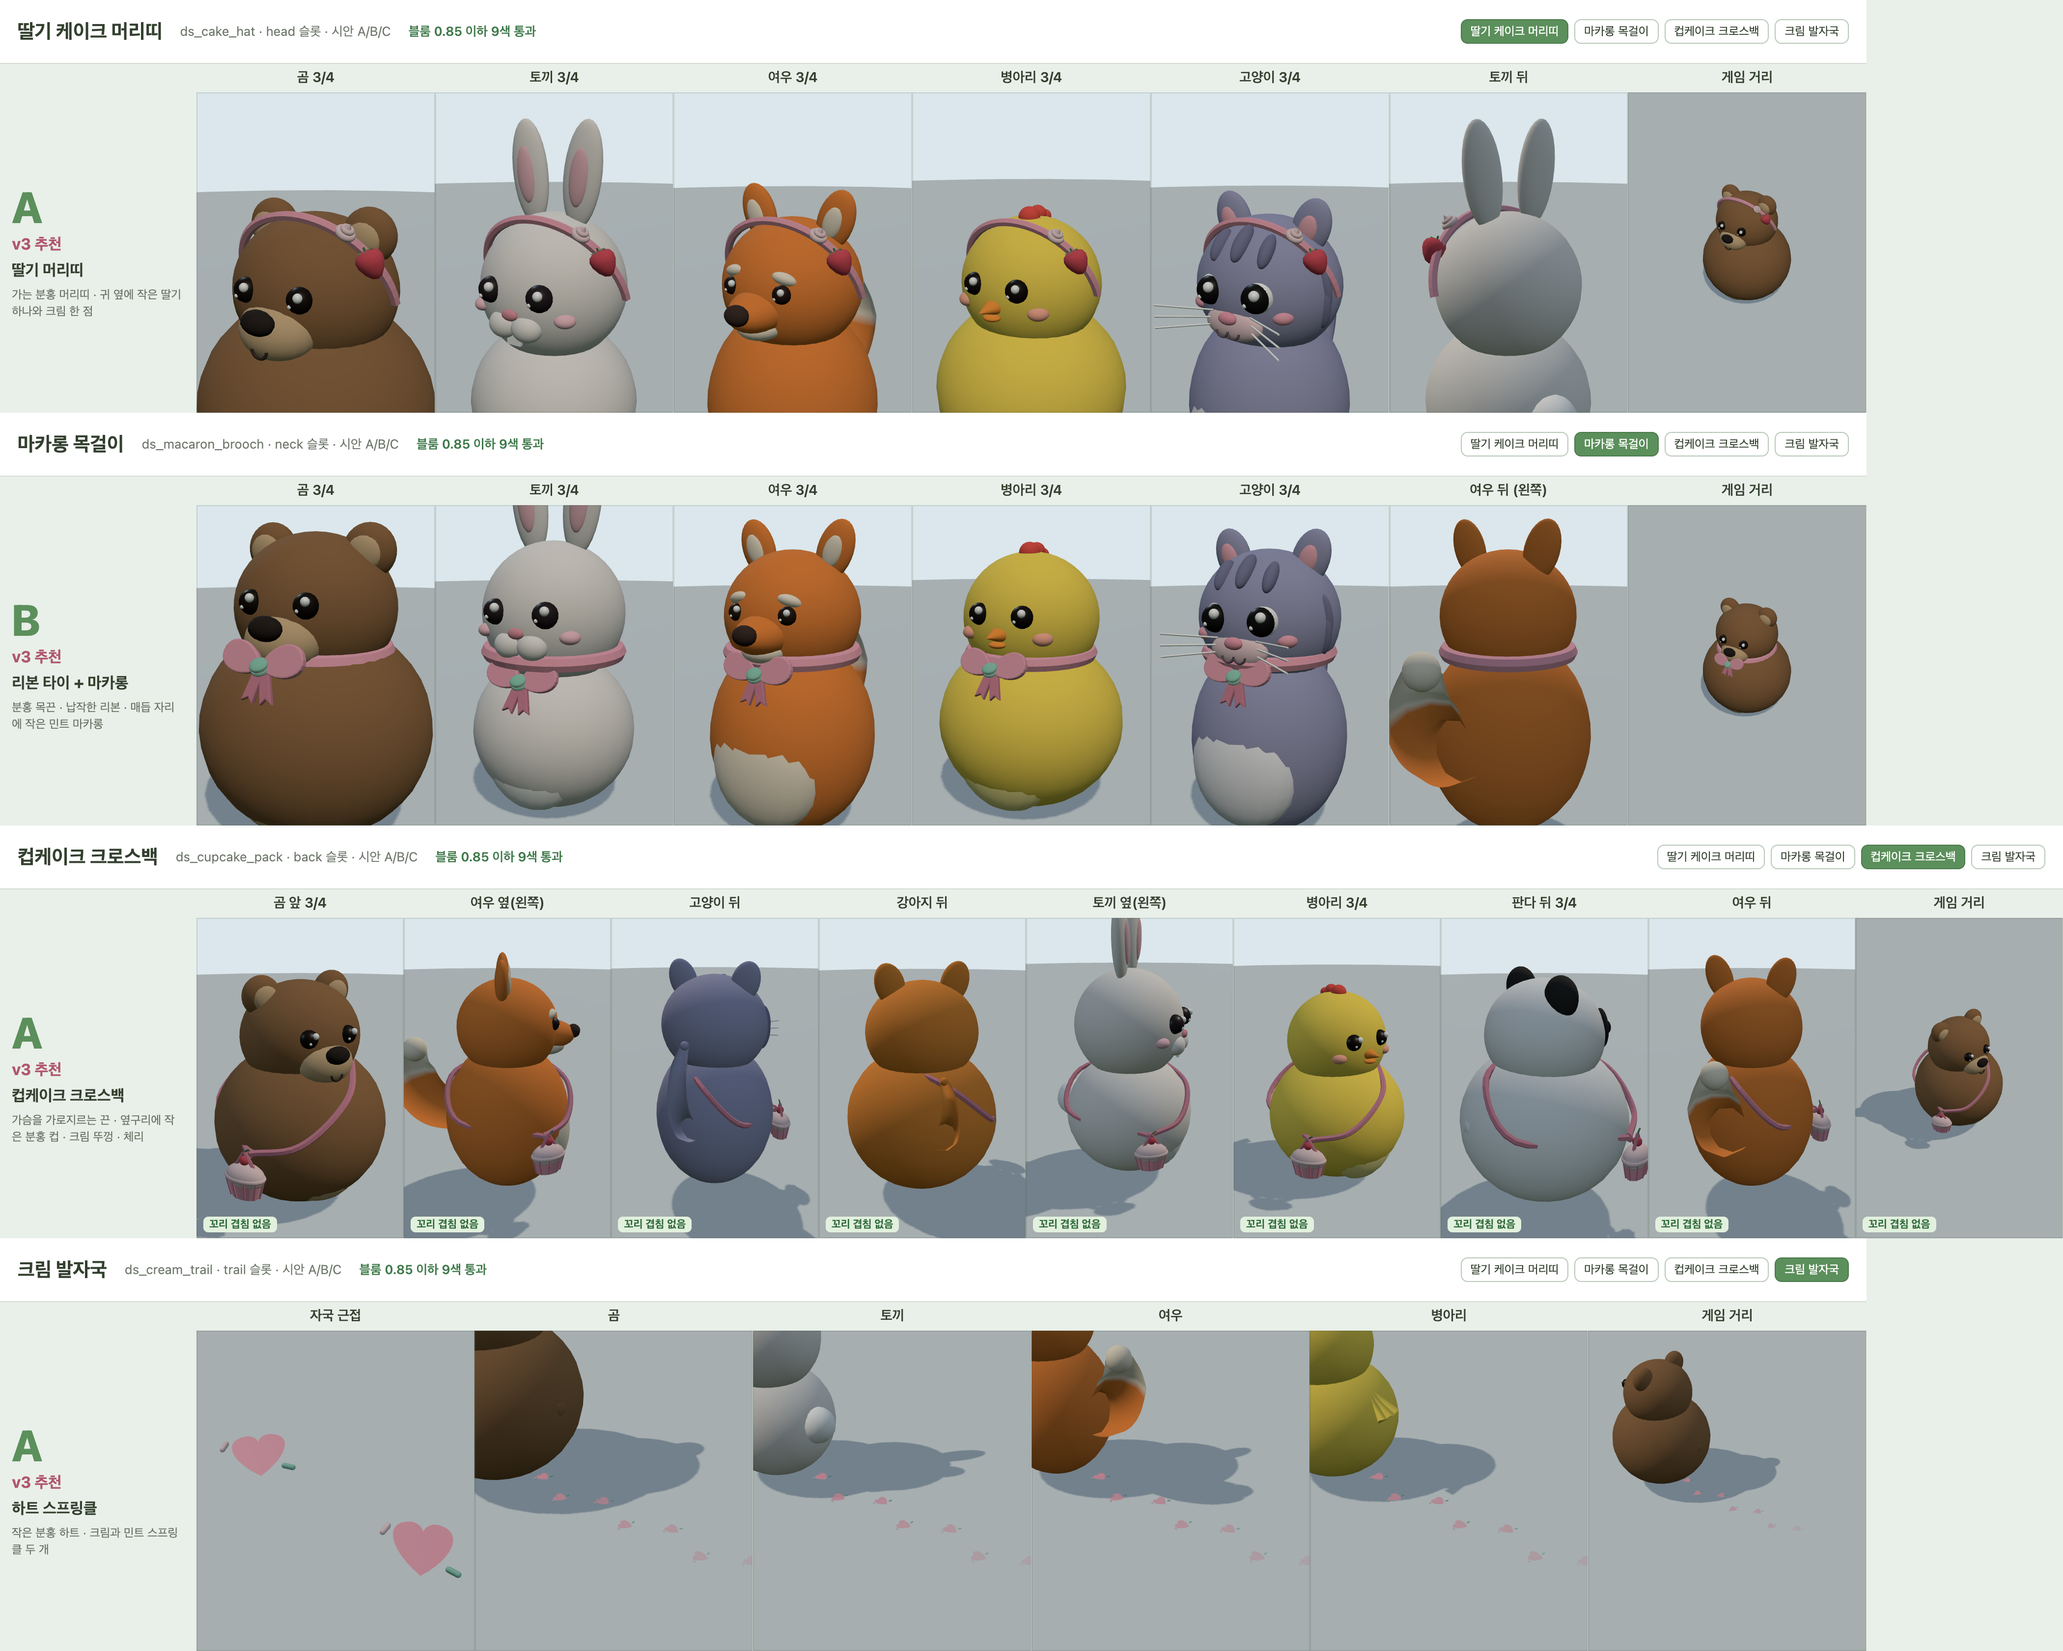
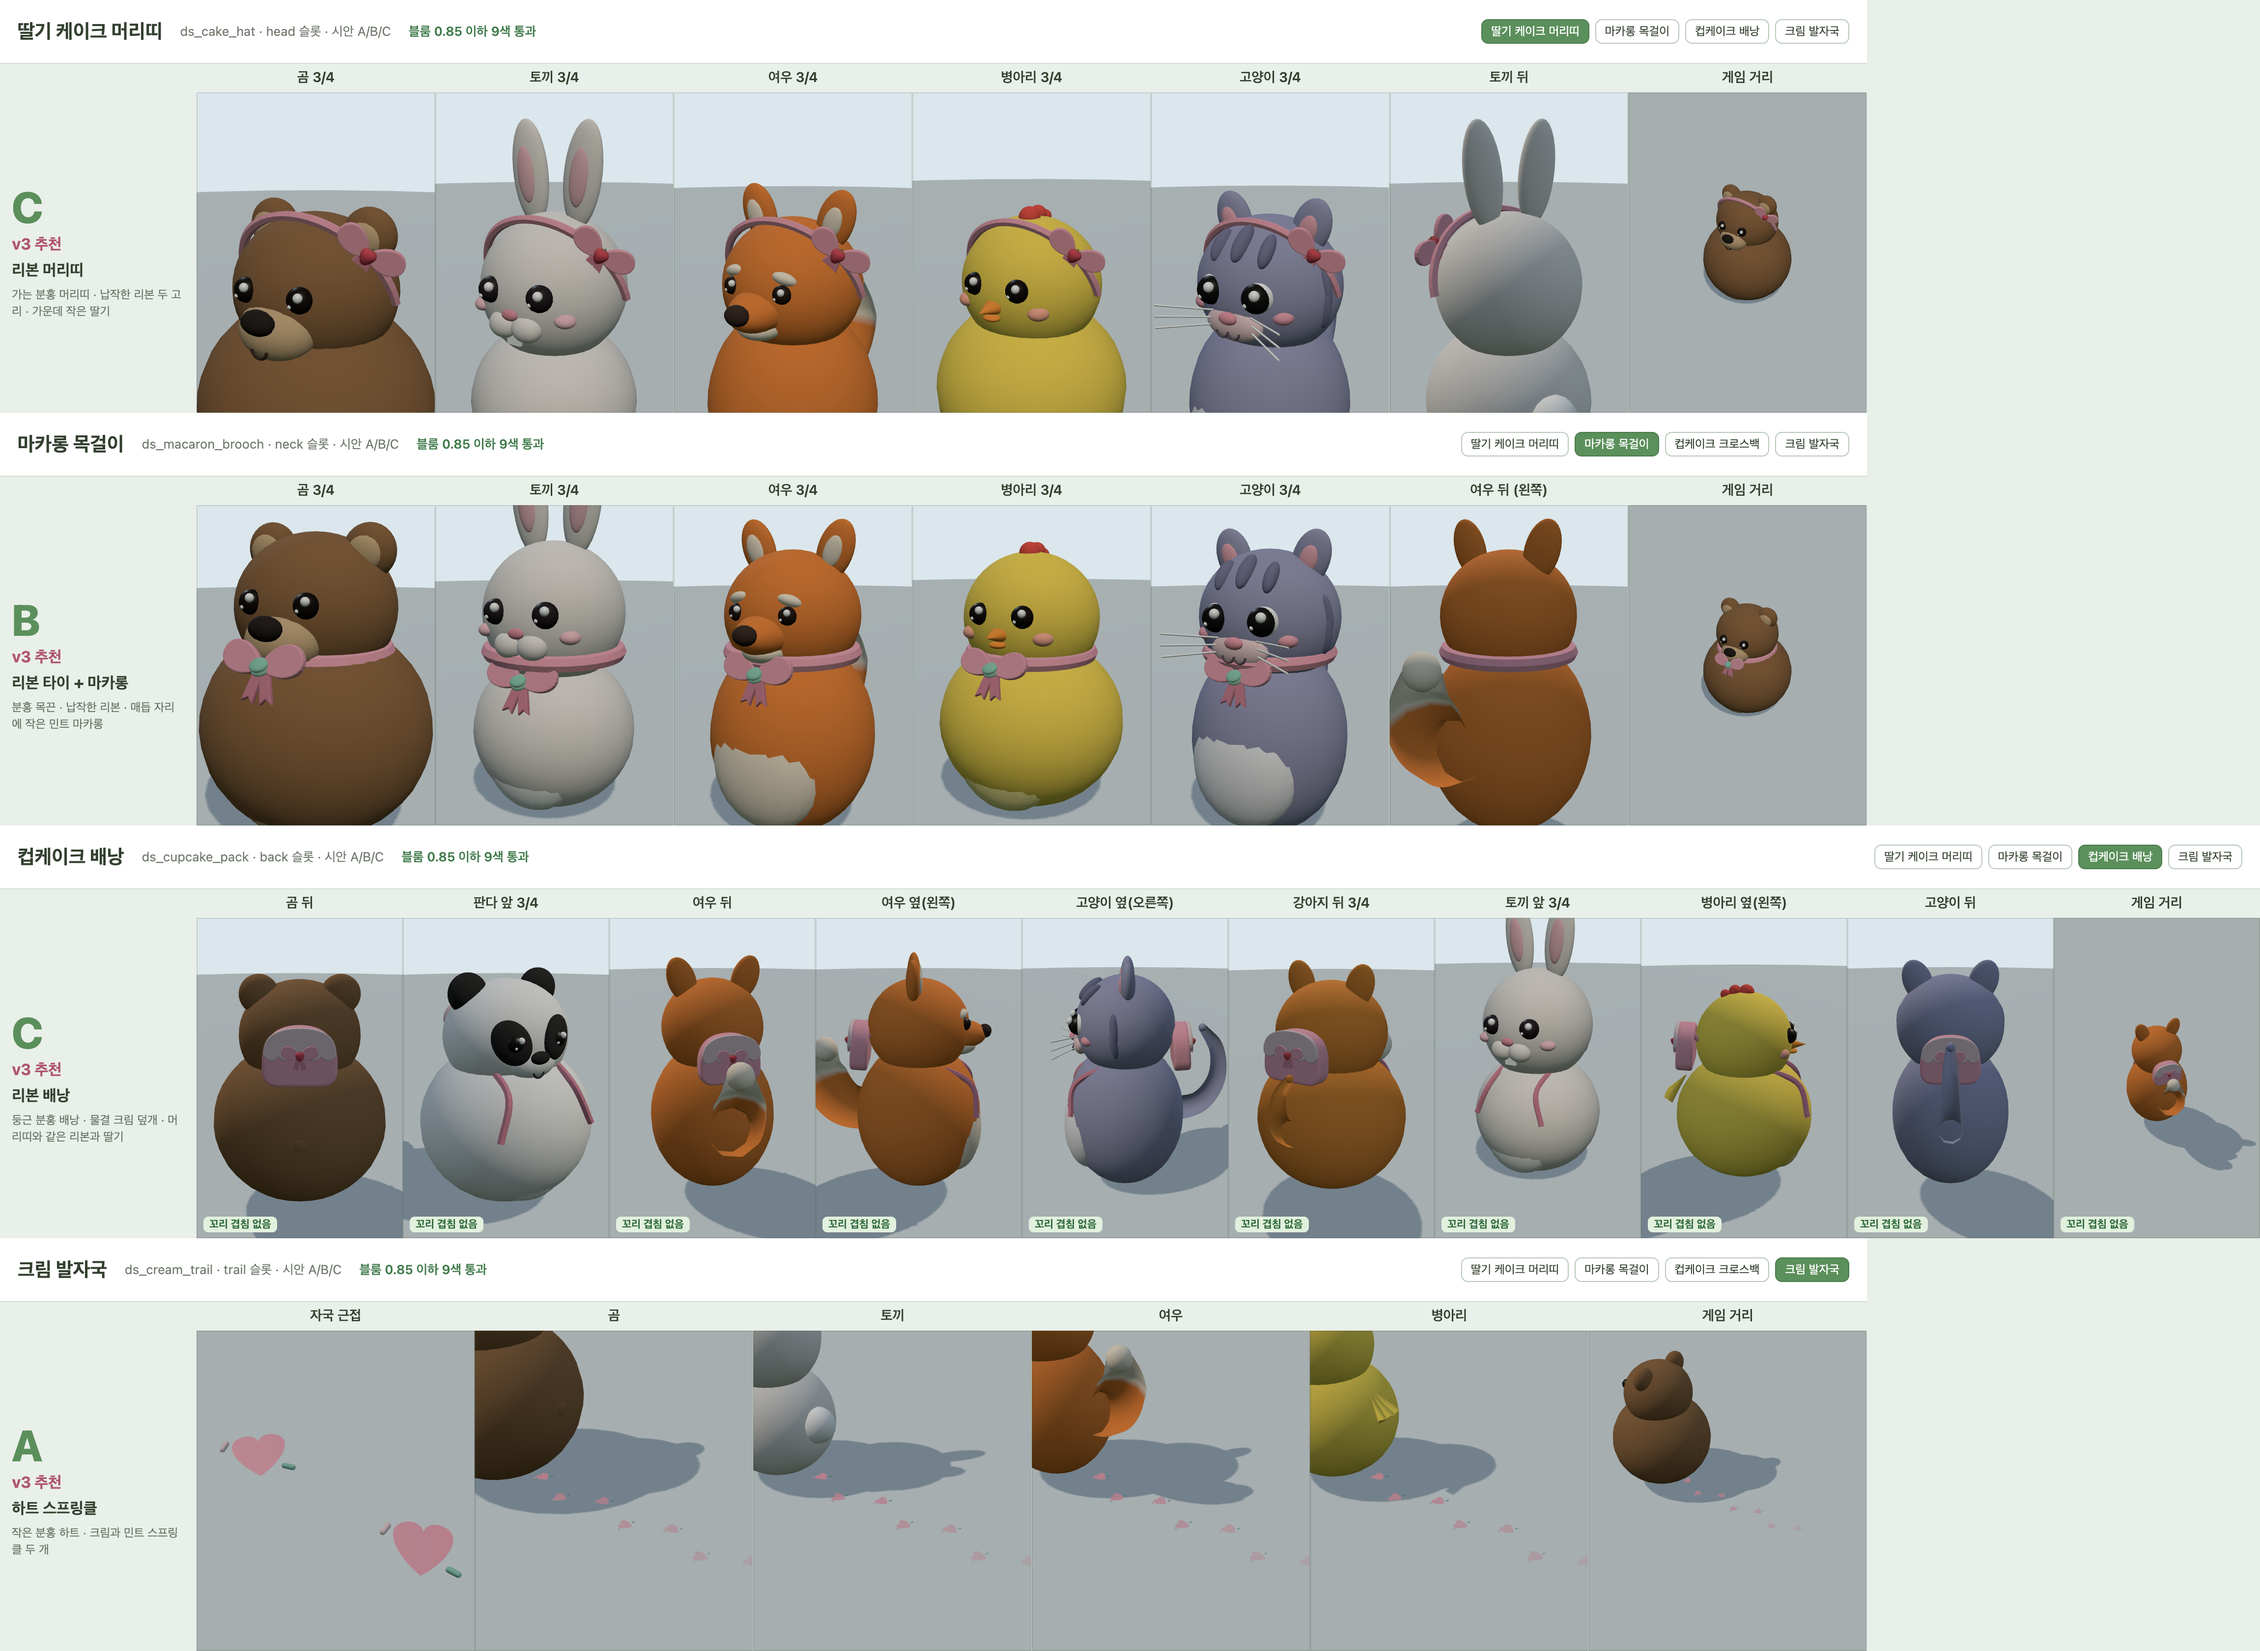
chore(sims): dessert backpack variants on upper back, ribbon headband pick

diff --git a/sims/dessert-pick-v3-cos-sim.html b/sims/dessert-pick-v3-cos-sim.html
@@ -240,9 +240,15 @@ const COLS = {
     { a: 'dog', ang: 165, label: '강아지 뒤' }, { a: 'rabbit', ang: 285, label: '토끼 옆(왼쪽)' }, { a: 'chick', ang: 320, label: '병아리 3/4' },
     { a: 'panda', ang: 240, label: '판다 뒤 3/4' }, { a: 'fox', ang: 200, label: '여우 뒤' }, { a: 'bear', ang: 320, label: '게임 거리', far: true },
   ],
+  pack: [
+    { a: 'bear', ang: 180, label: '곰 뒤' }, { a: 'panda', ang: 330, label: '판다 앞 3/4' }, { a: 'fox', ang: 165, label: '여우 뒤' },
+    { a: 'fox', ang: 270, label: '여우 옆(왼쪽)' }, { a: 'cat', ang: 90, label: '고양이 옆(오른쪽)' }, { a: 'dog', ang: 210, label: '강아지 뒤 3/4' },
+    { a: 'rabbit', ang: 30, label: '토끼 앞 3/4' }, { a: 'chick', ang: 270, label: '병아리 옆(왼쪽)' }, { a: 'cat', ang: 180, label: '고양이 뒤' },
+    { a: 'fox', ang: 160, label: '게임 거리', far: true },
+  ],
   cmp_head: [{ a: 'bear', ang: 32, label: '곰 3/4' }, { a: 'rabbit', ang: 32, label: '토끼 3/4' }, { a: 'chick', ang: 32, label: '병아리 3/4' }, { a: 'bear', ang: 32, label: '게임 거리', far: true }],
   cmp_neck: [{ a: 'bear', ang: 28, label: '곰 3/4' }, { a: 'rabbit', ang: 28, label: '토끼 3/4' }, { a: 'chick', ang: 28, label: '병아리 3/4' }, { a: 'bear', ang: 28, label: '게임 거리', far: true }],
-  cmp_back: [{ a: 'bear', ang: 235, label: '곰 뒤 3/4' }, { a: 'rabbit', ang: 235, label: '토끼 뒤 3/4' }, { a: 'chick', ang: 235, label: '병아리 뒤 3/4' }, { a: 'bear', ang: 235, label: '게임 거리', far: true }],
+  cmp_back: [{ a: 'bear', ang: 210, label: '곰 뒤 3/4' }, { a: 'rabbit', ang: 30, label: '토끼 앞 3/4' }, { a: 'chick', ang: 270, label: '병아리 옆' }, { a: 'fox', ang: 160, label: '게임 거리', far: true }],
   cmp_trail: [{ a: 'bear', ang: 125, label: '곰' }, { a: 'rabbit', ang: 125, label: '토끼' }, { a: 'chick', ang: 125, label: '병아리' }, { a: 'bear', ang: 125, label: '게임 거리', far: true }],
   trail: [
     { a: null, ang: 180, label: '자국 근접', close: true }, { a: 'bear', ang: 125, label: '곰' }, { a: 'rabbit', ang: 125, label: '토끼' },
@@ -290,7 +296,7 @@ rows.forEach((r, ri) => {
   const v = rowOf(r);
   const re = document.createElement('div');
   re.className = 'row';
-  re.innerHTML = `<div class="L">${r === 'REF' ? '기준' : r}</div>${r === ITEM.rec ? '<div class="n" style="color:#b0566e">v3 추천</div>' : ''}<div class="n">${v.name}</div><div class="d">${v.note}</div>`;
+  re.innerHTML = `<div class="L">${r.startsWith('REF') ? '기준' : r}</div>${r === ITEM.rec ? '<div class="n" style="color:#b0566e">v3 추천</div>' : ''}<div class="n">${v.name}</div><div class="d">${v.note}</div>`;
   Object.assign(re.style, { left: 0, width: LEFTW + 'px', top: TOP + COLH + ri * ch + 'px', height: ch + 'px' });
   ov.appendChild(re);
 
